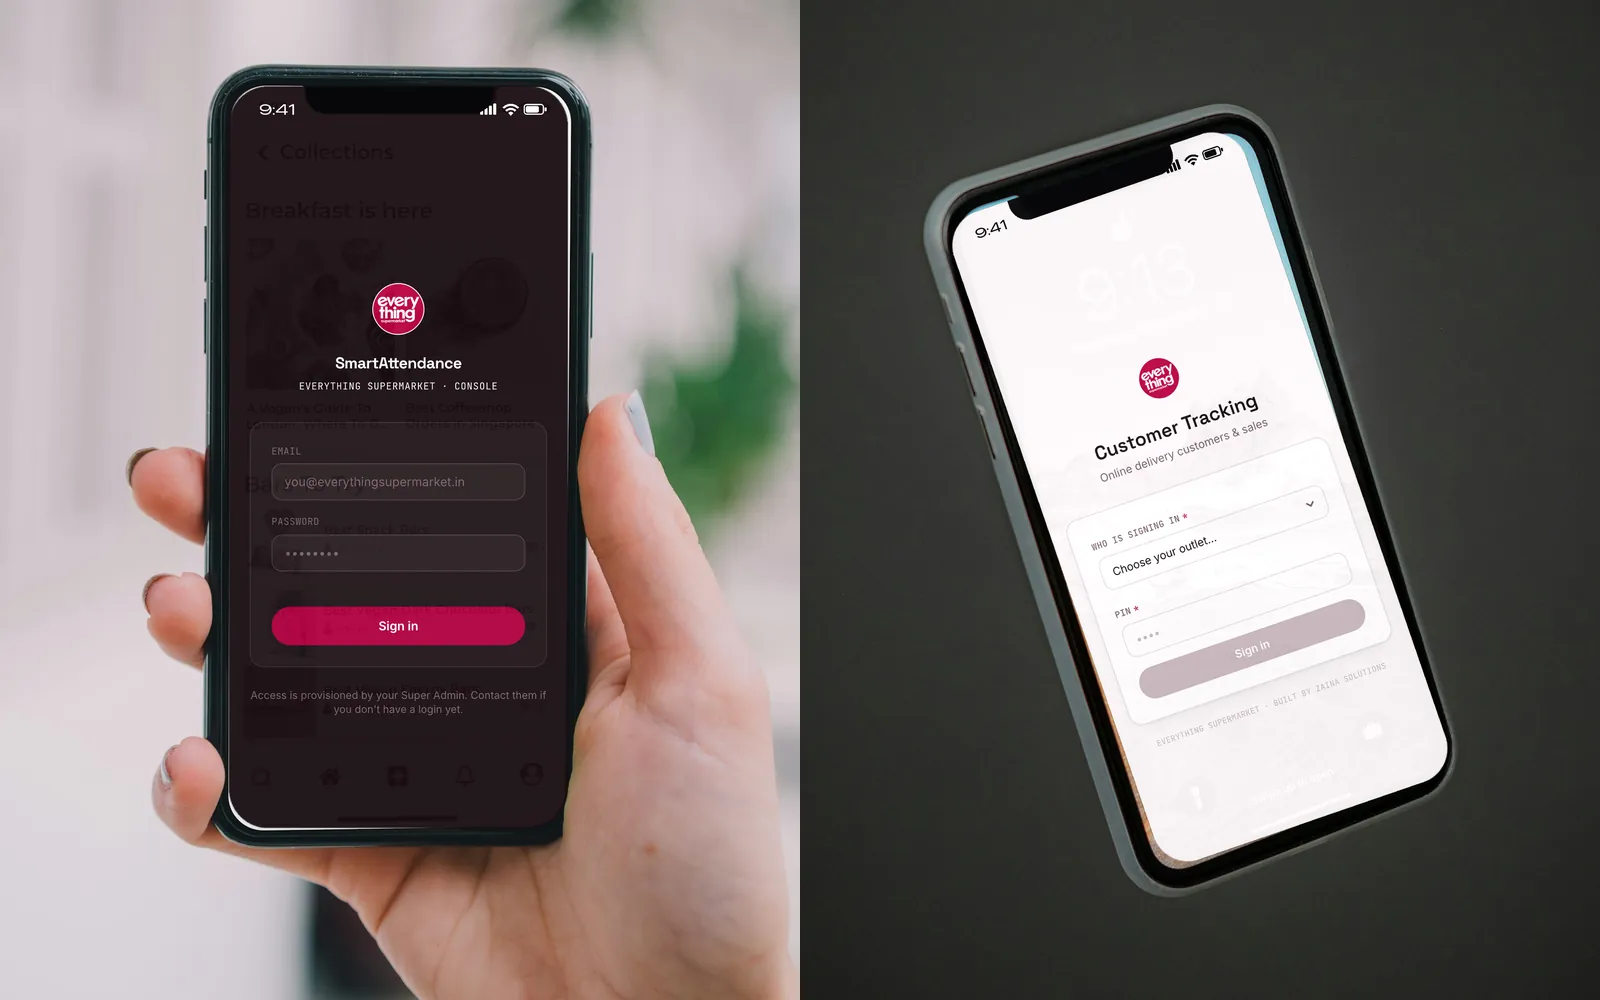
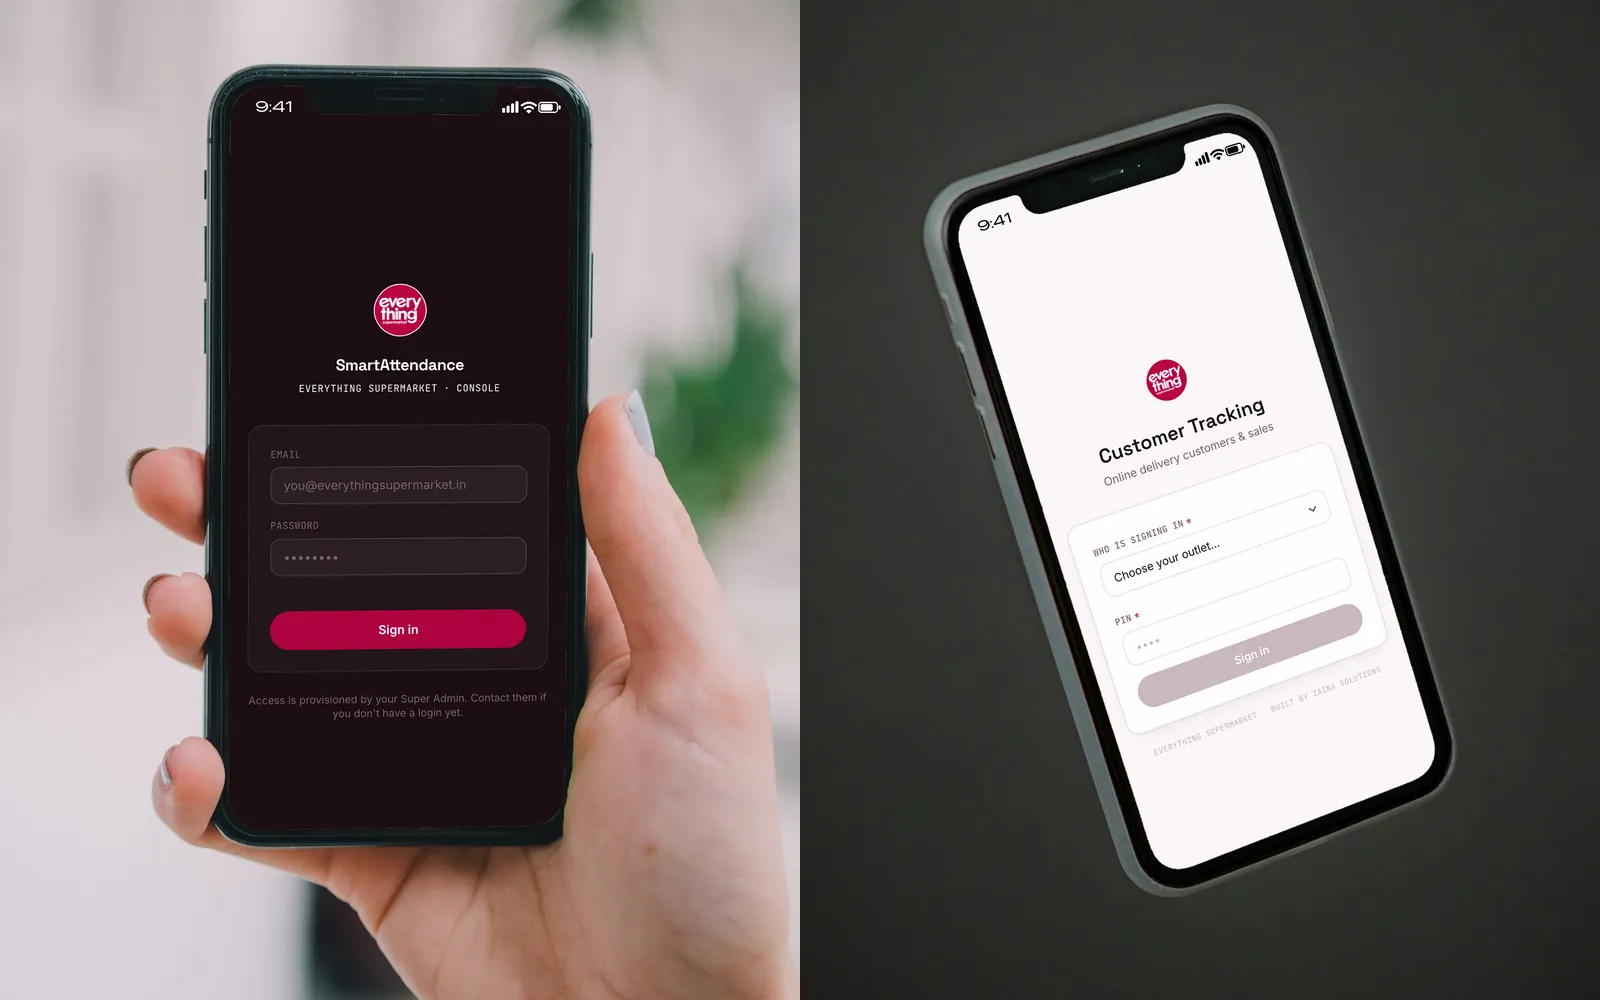
Fix phone mockup alignment, new Go Beyond Gym mockups, MIS Vector as client work
Phone mockups now clip the screenshot to the photo's own bezel and real
notch, with refined screen outlines and no ghosting of the original
screen content. Go Beyond Gym gets mockups of the live rebranded site and
dashboard in place of the old portfolio slides. MIS Vector moves to
Software as client work for MIS Data Automate.

diff --git a/src/lib/projects.ts b/src/lib/projects.ts
@@ -421,21 +421,20 @@ export const PROJECTS: Project[] = [
   {
     slug: "mis-vector",
     title: "MIS Vector",
-    category: "Products",
+    category: "Software",
     tag: "AI Data Platform",
     blurb:
       "AI data analysis for businesses - upload spreadsheets or connect an API, and get dashboards, reports and reconciliations in minutes.",
     srcs: ["/work/mis-vector-1.webp", "/work/mis-vector-2.webp", "/work/mis-vector-3.webp"],
     url: "https://misvector.com/",
-    ownership: "product",
-    client: "Zaina Solutions - in-house product",
+    client: "MIS Data Automate",
     sector: "Business intelligence SaaS",
     year: "2026",
     scope: "AI data-analysis platform",
     services: ["MVP Development", "UI/UX Design"],
     stack: ["React", "Vite", "Tailwind CSS", "AI analysis"],
     overview:
-      "Most small businesses report from spreadsheets: someone exports the data, pastes it into another sheet, reconciles it by hand and rebuilds the same report every month. MIS Vector is our product for taking that job off their desk.",
+      "Most small businesses report from spreadsheets: someone exports the data, pastes it into another sheet, reconciles it by hand and rebuilds the same report every month. MIS Vector, built for MIS Data Automate, takes that job off their desk.",
     sections: [
       {
         heading: "The challenge",
@@ -461,7 +460,7 @@ export const PROJECTS: Project[] = [
     ],
     metaTitle: "MIS Vector - AI Data Analysis Platform Case Study",
     metaDescription:
-      "How Zaina Solutions built MIS Vector, an AI data-analysis platform that turns spreadsheets, Tally exports and APIs into dashboards, reports and reconciliations.",
+      "How Zaina Solutions built MIS Vector for MIS Data Automate - an AI data-analysis platform that turns spreadsheets, Tally exports and APIs into dashboards, reports and reconciliations.",
     keywords: [
       "AI data analysis tool",
       "MIS reporting software",
@@ -689,8 +688,7 @@ export const PROJECTS: Project[] = [
     tag: "SaaS Platform",
     blurb:
       "An all-in-one gym management platform that replaces manual tracking with one easy system.",
-    cover: 33,
-    pages: [31, 32, 33, 34],
+    srcs: ["/work/gobeyond-1.webp", "/work/gobeyond-2.webp", "/work/gobeyond-3.webp"],
     url: "https://gobeyondgym.com",
     ownership: "product",
     client: "Zaina Solutions - in-house product",

diff --git a/src/app/api/chat/route.ts b/src/app/api/chat/route.ts
@@ -23,8 +23,8 @@ About Zaina Solutions:
 - Services: Website Development, App Development (iOS & Android), Branding, UI/UX Design, AI Automation, MVP Development.
 - The site has a Budget Calculator (an 8-step interactive tool at #estimate on the homepage) that gives an instant, itemized starting estimate based on project type, design, features, timeline, and hosting. It is not a final quote, but it is a real, useful starting point.
 - Track record: 40+ projects delivered, 25+ student creators, 30+ businesses served, 98% client satisfaction.
-- Selected work (case studies at zainasolutions.com/work): websites for Everything Supermarket (nine-store supermarket group, Kozhikode), PANTHERKLAW (film publicity studio), Nellissery Traders, TBI MESCE, Top Vision Security, Aardha Enterprises, Soorya Maternity & Children's Care and The Oneness Living; business software for Everything Supermarket (QR attendance + order tracking), KHDEC (interior quotation software), an alumni association (Tally-style accounts) and Hostel & Mess Management; Linkafe brand identity; Ilmora AI.
-- Zaina's own products: Go Beyond Gym (gym management), heyWash (car wash retention), AddMyAds (screen-advertising network), MIS Vector (AI data analysis), Jar Bot.
+- Selected work (case studies at zainasolutions.com/work): websites for Everything Supermarket (nine-store supermarket group, Kozhikode), PANTHERKLAW (film publicity studio), Nellissery Traders, TBI MESCE, Top Vision Security, Aardha Enterprises, Soorya Maternity & Children's Care and The Oneness Living; business software for Everything Supermarket (QR attendance + order tracking), KHDEC (interior quotation software), MIS Vector (AI data analysis, for MIS Data Automate), an alumni association (Tally-style accounts) and Hostel & Mess Management; Linkafe brand identity; Ilmora AI.
+- Zaina's own products: Go Beyond Gym (gym management), heyWash (car wash retention), AddMyAds (screen-advertising network), Jar Bot. MIS Vector is client work, not a Zaina product.
 - Contact: info@zainasolutions.com, phone and WhatsApp +91 87143 13489. The team replies within 1-2 business days.
 
 How to behave:
